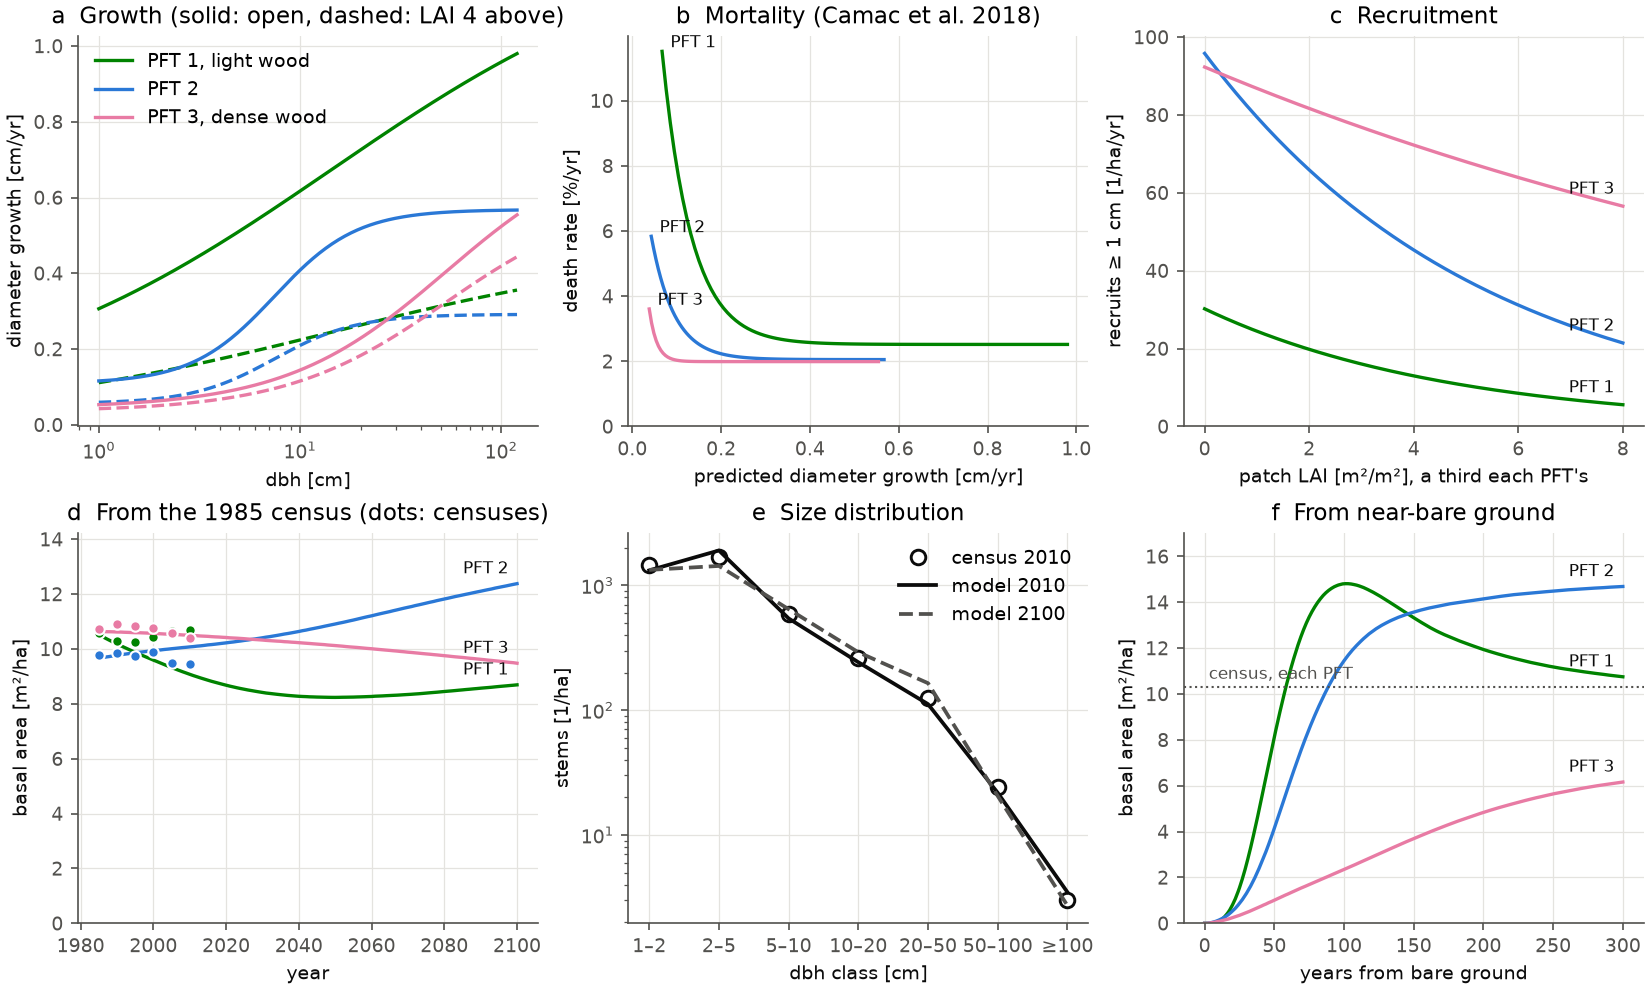
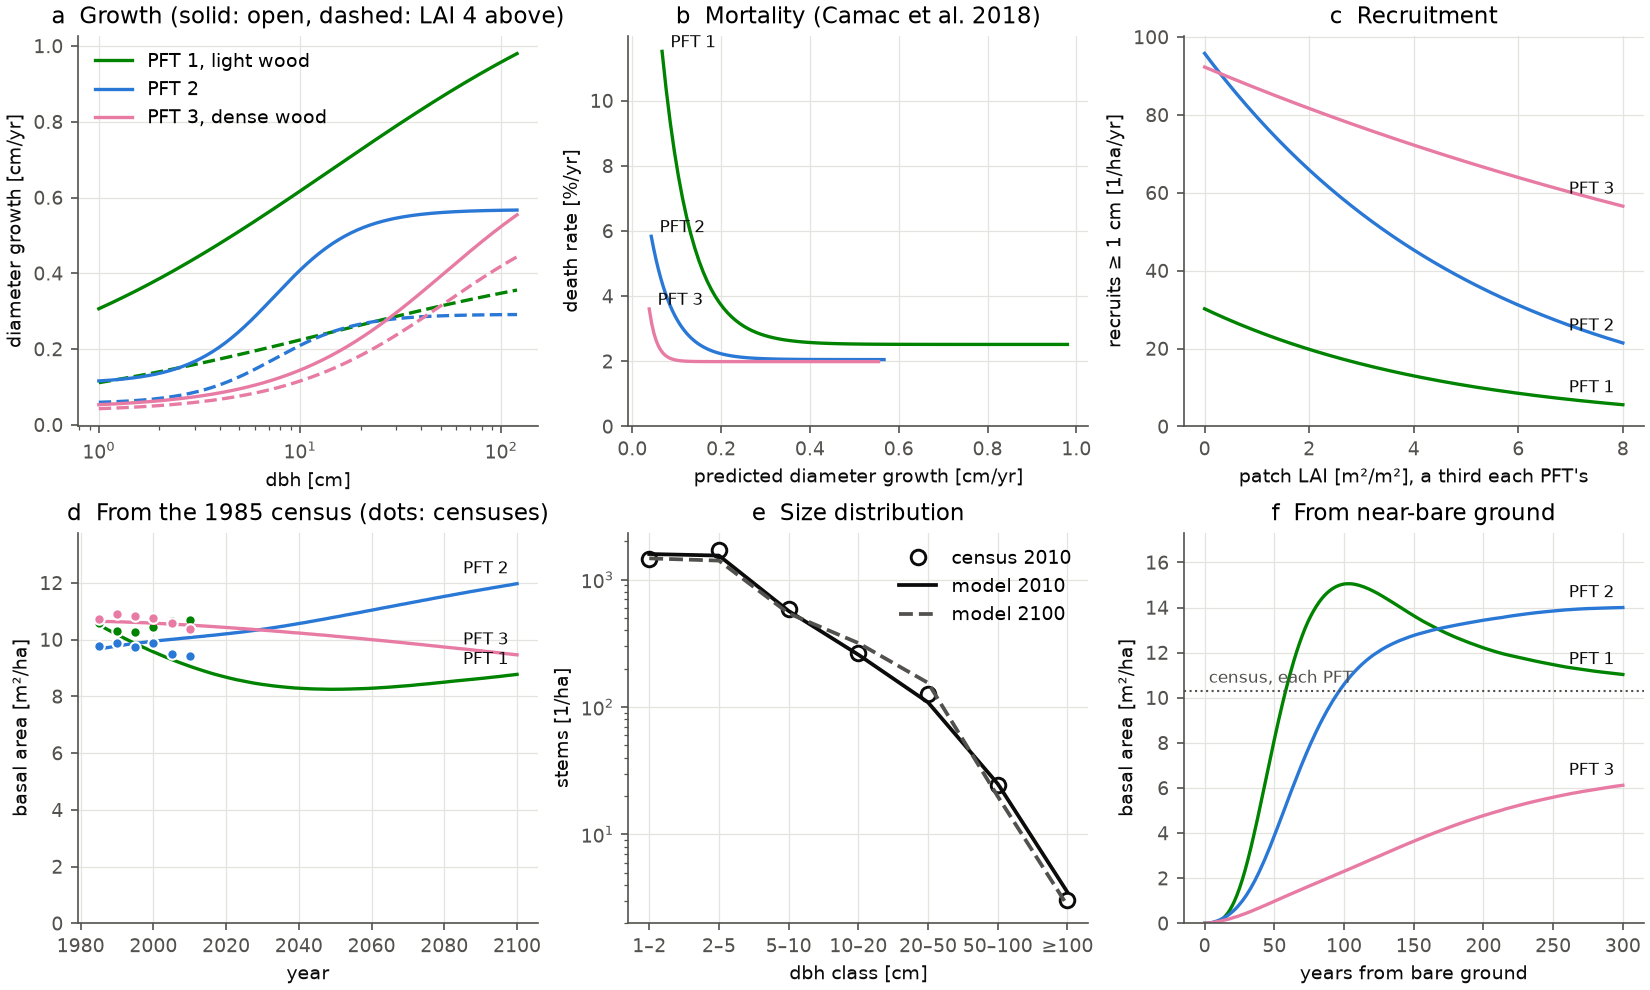
example03: rerun with the top-height cohort fusion (#402)
From the 1985 census: 2010 trees >= 10 cm 379 -> 394 ha^-1 (census 416), basal
area 29.6 unchanged; 2100 basal area 30.6 -> 30.2. From bare ground: 300-yr basal
area 31.6 -> 31.2 (+2 % on the census), within 2 % of the census's by 135 years.
The GIFs and the 3-D render are from the earlier run (the stand differs by a few
per cent).

example06: the Palo Verde check reruns bit-identically on beta; the README's
run line names build-ifx, as the other examples do.

diff --git a/examples/example03_demography/README.md b/examples/example03_demography/README.md
@@ -104,21 +104,21 @@ censuses, the size distribution in 2010, and a run from near-bare ground.
 |---|---|---|---|---|
 | census 1985 | 4841 | 414 | 31.1 | 10.6 / 9.8 / 10.7 |
 | census 2010 | 4145 | 416 | 30.5 | 10.7 / 9.4 / 10.4 |
-| model 2010, from the 1985 census | 4136 | 379 | 29.6 | 9.1 / 10.1 / 10.5 |
-| model 2100, from the 1985 census | 3877 | 478 | 30.6 | 8.7 / 12.4 / 9.5 |
-| model, 100 years from bare ground | 4002 | 484 | 28.6 | 14.8 / 11.4 / 2.4 |
-| model, 300 years from bare ground | 3809 | 448 | 31.6 | 10.8 / 14.7 / 6.2 |
+| model 2010, from the 1985 census | 4095 | 394 | 29.6 | 9.1 / 10.1 / 10.5 |
+| model 2100, from the 1985 census | 3917 | 495 | 30.2 | 8.8 / 12.0 / 9.5 |
+| model, 100 years from bare ground | 4021 | 491 | 28.0 | 15.0 / 10.6 / 2.3 |
+| model, 300 years from bare ground | 3832 | 463 | 31.2 | 11.0 / 14.0 / 6.1 |
 
 - **From the census, the module tracks the plot's stems for 25 years**, the decline and the size
-  distribution class by class, but runs low on the larger trees: in 2010, 379 trees above 10 cm
+  distribution class by class, but runs low on the larger trees: in 2010, 394 trees above 10 cm
   against 416 and 29.6 m² ha⁻¹ of basal area against 30.5, most of the shortfall PFT 1's.
 - **Run on to 2100, the stand holds its basal area**: it dips to 29.1 m² ha⁻¹ in the 2030s and
-  recovers to 30.6, as PFT 2 gains and PFT 3 loses. These are BCI's present rates run forward, not a
+  recovers to 30.2, as PFT 2 gains and PFT 3 loses. These are BCI's present rates run forward, not a
   prediction.
 - **From bare ground the stand goes through a succession.** Under an open canopy the light-wooded
-  PFT 1 grows fastest and rises with PFT 2, reaching the census's basal area in about 135 years;
+  PFT 1 grows fastest and rises with PFT 2, within 2 % of the census's basal area by 135 years;
   as the canopy closes PFT 1 declines, PFT 2 holds the canopy, and the dense-wooded PFT 3 builds up
-  slowly beneath. Basal area ends 4 % above the census's; the canopy thins upward to 43 m, as the
+  slowly beneath. Basal area ends 2 % above the census's; the canopy thins upward to 43 m, as the
   census stand does on the same height curve.
 
 <p align="center">

diff --git a/examples/example06_regional_run/README.md b/examples/example06_regional_run/README.md
@@ -89,4 +89,4 @@ none recruit). The PFT traits were set against this stand:
 | Stand LAI, March–April / wet season | 2.1 / 5.0 | MODIS 1.5 / 5.3 |
 | Mortality of trees ≥ 10 cm, Ds / D / BD / E [% yr⁻¹] | 2.5 / 1.2 / 0.7 / 0.5 | 0.7–3.1 for the plots (Powers et al. 2020) |
 
-From this folder, with the ED_ERA5land archive in place: `../../build/meds_main meds_config_pv.toml`.
+From this folder, with the ED_ERA5land archive in place: `../../build-ifx/meds_main meds_config_pv.toml`.
